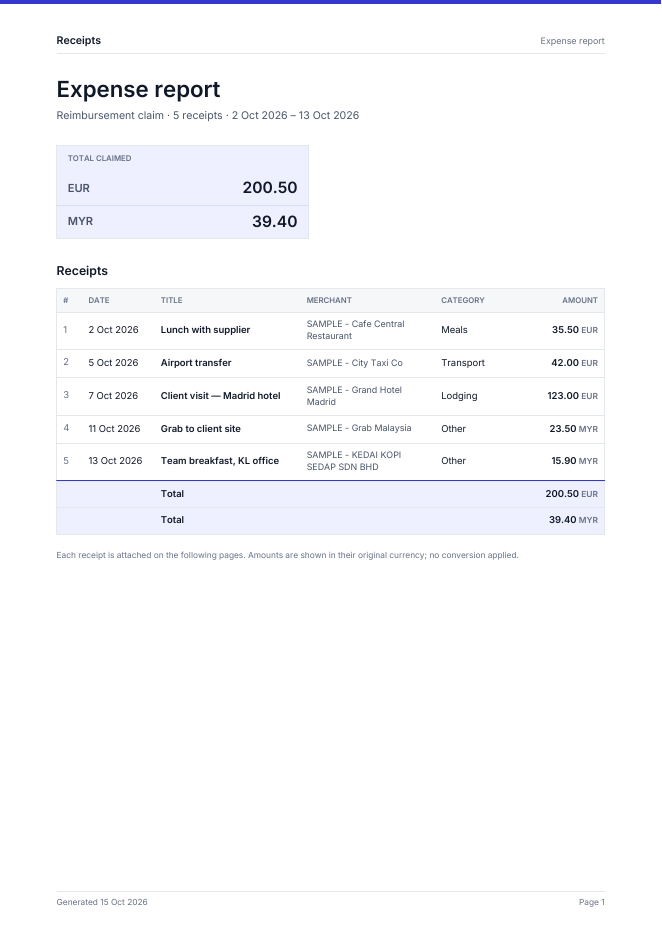
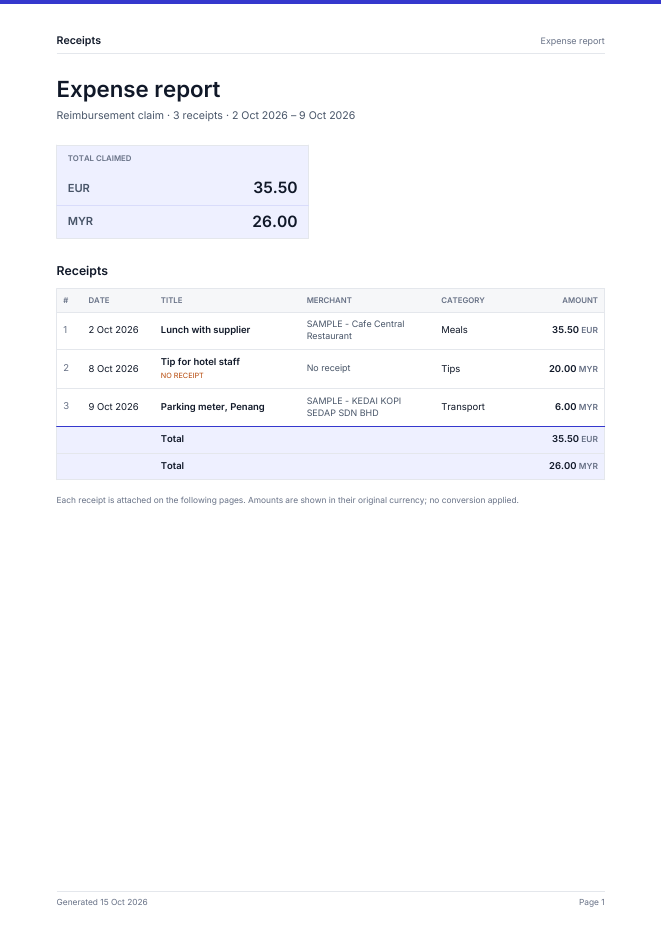
Manual expenses without receipt (Tips category, attach later), No receipt in list/PDF, CSV has_receipt

diff --git a/ui.py b/ui.py
@@ -2,7 +2,7 @@
 # (warm sand palette, thin serif display type, spaced uppercase labels, hairlines, slow transitions).
 STATUS_ES = {"to submit": "To submit", "submitted": "Submitted", "reimbursed": "Reimbursed"}
 CAT_ES = {"meals": "Meals", "travel": "Travel", "transport": "Transport", "lodging": "Lodging",
-          "supplies": "Supplies", "other": "Other"}
+          "supplies": "Supplies", "tips": "Tips", "other": "Other"}
 MESES = ["Jan", "Feb", "Mar", "Apr", "May", "Jun", "Jul", "Aug", "Sep", "Oct", "Nov", "Dec"]
 
 CUR_INFO = {  # code: (symbol, name)
@@ -129,6 +129,13 @@ input[type=checkbox]:checked:after{content:"";position:absolute;left:4.5px;top:1
 .row{min-height:64px;padding-top:10px;padding-bottom:10px;border-bottom:1px solid var(--border);transition:background .12s}
 .row:last-child{border-bottom:0}.row:hover{background:#fafbfc}
 .thumb{width:44px;height:44px;border-radius:8px;overflow:hidden;background:var(--subtle);border:1px solid var(--border);display:block}
+.thumb.norec{display:grid;place-items:center;color:#98a2b3;background:repeating-linear-gradient(135deg,#f6f7f9 0 6px,#eef0f3 6px 12px);border-style:dashed}
+.nobadge{display:inline-flex;align-items:center;height:18px;padding:0 6px;margin-right:6px;border-radius:5px;background:#f2f4f7;border:1px solid var(--border);color:var(--text2);font-size:11px;font-weight:600;vertical-align:1px}
+.ph-act{display:flex;gap:8px;flex-wrap:wrap}
+.err-t{color:#b42318;font-size:12.5px}.inv{border-color:#fda29b!important}
+.req{color:#b42318}
+.noprev{padding:28px 18px;text-align:center}.noprev .ic{width:52px;height:52px;border-radius:12px;margin:0 auto 12px;display:grid;place-items:center;color:#98a2b3;background:repeating-linear-gradient(135deg,#f6f7f9 0 6px,#eef0f3 6px 12px);border:1px dashed var(--border2)}
+.noprev b{display:block;font-size:15px}.noprev p{color:var(--muted);margin:4px 0 16px}
 .thumb img{width:100%;height:100%;object-fit:cover}
 .ttl{font-weight:600;white-space:nowrap;overflow:hidden;text-overflow:ellipsis}
 .ttl:hover{color:var(--accent)}
@@ -173,7 +180,7 @@ details.ocr pre{margin:0;padding:0 18px 18px;white-space:pre-wrap;font:12.5px/1.
 @media (max-width:1080px){.grid{grid-template-columns:1fr}.side{position:static;order:-1}.stats{grid-template-columns:repeat(2,1fr)}}
 @media (max-width:760px){
  main{padding:18px 14px 70px}.bar-in{padding:0 14px}
- .ph h1{font-size:21px}.ph .btn{display:none}
+ .ph h1{font-size:21px}.ph-act{width:100%}.ph-act .btn{flex:1}
  .stats{gap:10px}.stat{padding:13px 14px}.stat .v{font-size:18px}
  .fbar{padding:12px 14px}.fbar .field{width:calc(50% - 5px)}.fbar .btns{width:100%;display:flex;gap:8px}.fbar .btns .btn{flex:1}
  .abar{padding:10px 14px}.abar .r{width:100%}.abar .r .btn{flex:1}
@@ -193,6 +200,8 @@ ICON_UP = '<svg viewBox="0 0 24 24" fill="none" stroke="currentColor" stroke-wid
 ICON_DOC = '<svg viewBox="0 0 24 24" fill="none" stroke="currentColor" stroke-width="1.8" stroke-linecap="round" stroke-linejoin="round" width="16" height="16"><path d="M14 3H7a2 2 0 0 0-2 2v14a2 2 0 0 0 2 2h10a2 2 0 0 0 2-2V8z"/><path d="M14 3v5h5"/></svg>'
 ICON_CAM = '<svg viewBox="0 0 24 24" fill="none" stroke="currentColor" stroke-width="1.8" stroke-linecap="round" stroke-linejoin="round" width="16" height="16"><path d="M3 8a2 2 0 0 1 2-2h2l2-2h6l2 2h2a2 2 0 0 1 2 2v10a2 2 0 0 1-2 2H5a2 2 0 0 1-2-2z"/><circle cx="12" cy="13" r="3.5"/></svg>'
 ICON_LOGO = '<svg viewBox="0 0 24 24" fill="none" stroke="currentColor" stroke-width="2" stroke-linecap="round" stroke-linejoin="round" width="16" height="16"><path d="M6 3h12v18l-3-2-3 2-3-2-3 2z"/><path d="M9 8h6M9 12h6"/></svg>'
+ICON_NOREC = '<svg viewBox="0 0 24 24" fill="none" stroke="currentColor" stroke-width="1.7" stroke-linecap="round" stroke-linejoin="round" width="18" height="18"><path d="M6 3h12v18l-3-2-3 2-3-2-3 2z"/><path d="M3 3l18 18"/></svg>'
+ICON_PEN = '<svg viewBox="0 0 24 24" fill="none" stroke="currentColor" stroke-width="2" stroke-linecap="round" stroke-linejoin="round"><path d="M12 20h9"/><path d="M16.5 3.5a2.1 2.1 0 0 1 3 3L7 19l-4 1 1-4z"/></svg>'
 ICON_PLUS = '<svg viewBox="0 0 24 24" fill="none" stroke="currentColor" stroke-width="2" stroke-linecap="round"><path d="M12 5v14M5 12h14"/></svg>'
 
 TOP = """{% macro curopts(sel, extra=None) %}{% for c in CUR_MAIN %}<option value="{{c}}" {{'selected' if sel==c}}>{{c}} · {{CUR_INFO[c][0]}} · {{CUR_INFO[c][1]}}</option>{% endfor %}
@@ -204,7 +213,7 @@ TOP = """{% macro curopts(sel, extra=None) %}{% for c in CUR_MAIN %}<option valu
 
 INDEX = HEAD + """<title>Expenses · Receipts</title></head><body>""" + TOP + """<main>
 <div class=ph><div><h1>Expenses</h1><p>Track receipts from upload to reimbursement.</p></div>
-<a href="#add" class=btn>""" + ICON_PLUS + """ New receipt</a></div>
+<div class=ph-act><a href="/new" class="btn sec">""" + ICON_PEN + """ Add expense</a><a href="#add" class=btn>""" + ICON_PLUS + """ New receipt</a></div></div>
 <section class=stats>{% for s in statuses %}<div class="card stat"><div class=k><span class="dot d-{{s.split()[0]}}"></span>{{ST[s]}}</div>
 {% set tl = cur_sorted(totals[s]) %}<div class="lines{{' multi' if tl|length > 1}}">{% for c,v in tl %}<div class=ln><span class=sy>{{sym(c)}}</span>{{money(v)}}<small>{{c}}</small></div>{% else %}<div class=ln>0.00</div>{% endfor %}</div>
 <div class=f>{{counts[s]}} {{'receipt' if counts[s]==1 else 'receipts'}}</div></div>{% endfor %}
@@ -228,8 +237,8 @@ INDEX = HEAD + """<title>Expenses · Receipts</title></head><body>""" + TOP + ""
 <div class=thead><span></span><span></span><span>Receipt</span><span>Date</span><span>Category</span><span>Status</span><span class=ra>Amount</span></div>
 {% for r in rows %}<div class=row>
 <span class=ck-w><input type=checkbox class=ck name=ids value={{r.id}} aria-label="Select"></span>
-<a class=thumb href="/edit/{{r.id}}">{% if r.preview %}<img src="/thumbs/{{r.preview}}" alt="" loading=lazy>{% endif %}</a>
-<div class=main><a href="/edit/{{r.id}}" class=ttl style="display:block">{{r.title or r.merchant or 'Untitled'}}</a><div class=mer>{{r.merchant or 'Unknown merchant'}}</div></div>
+{% if r.file %}<a class=thumb href="/edit/{{r.id}}">{% if r.preview %}<img src="/thumbs/{{r.preview}}" alt="" loading=lazy>{% endif %}</a>{% else %}<a class="thumb norec" href="/edit/{{r.id}}" title="No receipt">""" + ICON_NOREC + """</a>{% endif %}
+<div class=main><a href="/edit/{{r.id}}" class=ttl style="display:block">{{r.title or r.merchant or 'Untitled'}}</a><div class=mer>{% if not r.file %}<span class=nobadge>No receipt</span>{% endif %}{{r.merchant or ('Manual expense' if not r.file else 'Unknown merchant')}}</div></div>
 <span class=date>{{fecha(r.date)}}</span>
 <span class=cat-c><span class=chip>{{CAT.get(r.category, r.category)}}</span></span>
 <span class=st-c><span class="pill p-{{r.status.split()[0]}}">{{ST.get(r.status, r.status)}}</span></span>
@@ -267,10 +276,15 @@ document.getElementById('up').addEventListener('submit',ev=>{if(!f.files.length&
 
 EDIT = HEAD + """<title>{{r.title or r.merchant or 'Receipt'}} · Receipts</title></head><body>""" + TOP + """<main>
 <div class=ph><div><div class=crumb><a href="/">Expenses</a> / Receipt #{{r.id}}</div><h1>{{r.title or r.merchant or 'Untitled'}}</h1>
-<p>{{r.merchant or 'Unknown merchant'}} · {{fecha(r.date)}} · <span class="pill p-{{r.status.split()[0]}}" style="vertical-align:1px">{{ST.get(r.status, r.status)}}</span></p></div></div>
+<p>{% if not r.file %}<span class=nobadge>No receipt</span>{% endif %}{{r.merchant or ('Manual expense' if not r.file else 'Unknown merchant')}} · {{fecha(r.date)}} · <span class="pill p-{{r.status.split()[0]}}" style="vertical-align:1px">{{ST.get(r.status, r.status)}}</span></p></div></div>
 <div class=edit>
-<div class="card preview">{% if r.preview %}<a href="/uploads/{{r.file}}" target=_blank><img src="/thumbs/{{r.preview}}" alt="Receipt"></a>{% endif %}
+{% if r.file %}<div class="card preview">{% if r.preview %}<a href="/uploads/{{r.file}}" target=_blank><img src="/thumbs/{{r.preview}}" alt="Receipt"></a>{% endif %}
 <div class=pf><span>{{r.file.rsplit('.',1)[-1]|upper}} file</span><a href="/uploads/{{r.file}}" target=_blank>View original ↗</a></div></div>
+{% else %}<div class="card preview"><div class=noprev><div class=ic>""" + ICON_NOREC + """</div><b>No receipt attached</b><p>This is a manual expense. You can attach a photo or PDF later; empty fields will be filled from it.</p>
+<form method=post action="/attach/{{r.id}}" enctype=multipart/form-data id=att><input type=file name=file accept="image/*,application/pdf,.heic,.heif" id=attf style="position:absolute;width:1px;height:1px;opacity:0">
+<div class=pick style="margin-top:0"><label for=attf class="btn sec">""" + ICON_DOC + """ Choose file</label><button class=btn>Attach</button></div><div class=files id=attn></div></form>
+<script>const af=document.getElementById('attf');af.addEventListener('change',()=>{document.getElementById('attn').textContent=[...af.files].map(x=>x.name).join(' · ')});
+document.getElementById('att').addEventListener('submit',e=>{if(!af.files.length){e.preventDefault();document.getElementById('attn').textContent='Choose a file first.'}})</script></div></div>{% endif %}
 <div><form method=post class=card><div class=card-h><h2>Details</h2></div><div class="card-b fg">
 <label class="field full"><span>Title / description</span><input name=title value="{{r.title or ''}}" placeholder="e.g. Aquapark for Argentina" maxlength=200></label>
 <label class="field full"><span>Merchant</span><input name=merchant value="{{r.merchant}}"></label>
@@ -291,3 +305,17 @@ LOGIN = HEAD + """<title>Sign in · Receipts</title></head><body><div class=logi
 <form method=post><label class=field><span>Password</span><input type=password name=password autocomplete=current-password autofocus required></label>
 {% if err %}<div class=err>{{err}}</div>{% endif %}<button class=btn>Sign in</button></form>
 <div class=lf>Private workspace · Work expenses</div></div></div></body></html>"""
+
+
+NEW = HEAD + """<title>Add expense · Receipts</title></head><body>""" + TOP + """<main>
+<div class=ph><div><div class=crumb><a href="/">Expenses</a> / Add expense</div><h1>Add expense</h1><p>Record an expense without a receipt, such as a tip. You can attach a receipt later.</p></div></div>
+<form method=post class=card style="max-width:720px" novalidate><div class=card-h><div><h2>Expense details</h2><div class=sub>Fields marked <span class=req>*</span> are required</div></div><span class=nobadge>No receipt</span></div>
+<div class="card-b fg">
+<label class="field full"><span>Title <span class=req>*</span></span><input name=title value="{{v.title}}" placeholder="e.g. Tip for hotel staff" maxlength=200 required autofocus class="{{'inv' if errs.title}}">{% if errs.title %}<span class=err-t>{{errs.title}}</span>{% endif %}</label>
+<label class=field><span>Date</span><input type=date name=date value="{{v.date}}"></label>
+<label class=field><span>Category</span><select name=category>{% for c in cats %}<option value="{{c}}" {{'selected' if v.category==c}}>{{CAT[c]}}</option>{% endfor %}</select></label>
+<label class=field><span>Amount <span class=req>*</span></span><input type=number step=0.01 min=0.01 inputmode=decimal name=amount value="{{v.amount}}" placeholder="0.00" required class="num-t {{'inv' if errs.amount}}">{% if errs.amount %}<span class=err-t>{{errs.amount}}</span>{% endif %}</label>
+<label class=field><span>Currency</span><select name=currency>{{curopts(v.currency)}}</select></label>
+<label class="field full"><span>Note</span><textarea name=notes rows=3 placeholder="e.g. Tip on behalf of my boss">{{v.notes}}</textarea></label>
+<label class="field full"><span>Status</span><select name=status>{% for s in statuses %}<option value="{{s}}" {{'selected' if v.status==s}}>{{ST[s]}}</option>{% endfor %}</select></label></div>
+<div class=acts><button class=btn>Add expense</button><a href="/" class="btn sec">Cancel</a></div></form></main></body></html>"""

diff --git a/app.py b/app.py
@@ -9,7 +9,7 @@ DATA = os.environ.get("DATA_DIR", BASE)
 UP = os.path.join(DATA, "uploads"); TH = os.path.join(DATA, "thumbs")
 for d in (UP, TH): os.makedirs(d, exist_ok=True)
 DB = os.path.join(DATA, "receipts.db")
-CATS = ["meals","travel","transport","lodging","supplies","other"]
+CATS = ["meals","travel","transport","lodging","supplies","tips","other"]
 STATUSES = ["to submit","submitted","reimbursed"]
 import json, datetime as _dt
 from werkzeug.security import check_password_hash
@@ -139,7 +139,7 @@ def selected(form):
     if ids: return db().execute("SELECT * FROM receipts WHERE id IN (%s) ORDER BY date" % ",".join("?"*len(ids)), ids).fetchall()
     return list(reversed(query(form)))
 
-from ui import INDEX, EDIT, LOGIN, STATUS_ES, CAT_ES, fecha, money, CUR_MAIN, CUR_OTHER, CUR_INFO, cur_sorted, sym
+from ui import INDEX, EDIT, LOGIN, NEW, STATUS_ES, CAT_ES, fecha, money, CUR_MAIN, CUR_OTHER, CUR_INFO, cur_sorted, sym
 CODES = list(CUR_INFO)
 app.jinja_env.globals.update(ST=STATUS_ES, CAT=CAT_ES, fecha=fecha, money=money, CUR_MAIN=CUR_MAIN, CUR_OTHER=CUR_OTHER, CUR_INFO=CUR_INFO, cur_sorted=cur_sorted, sym=sym)
 @app.route("/login", methods=["GET","POST"])
@@ -182,6 +182,46 @@ def upload():
     if last: flash("Receipt added · please review the details"); return redirect(url_for("edit", rid=last))
     return redirect("/")
 
+@app.route("/new", methods=["GET","POST"])
+def new_expense():
+    """Manual expense with no receipt file."""
+    today = datetime.date.today().isoformat()
+    v = {"title": "", "date": today, "amount": "", "currency": session.get("cur", "EUR"), "category": "tips", "notes": "", "status": "to submit"}
+    errs = {}
+    if request.method == "POST":
+        f = request.form
+        v.update({k: (f.get(k) or "").strip() for k in v})
+        v["currency"] = (v["currency"] or "EUR").upper()[:3]; v["date"] = v["date"] or today
+        if not v["title"]: errs["title"] = "Please enter a title."
+        try:
+            amt = float(v["amount"].replace(",", "."))
+            if amt <= 0: raise ValueError
+        except ValueError: errs["amount"] = "Please enter an amount greater than 0."
+        if v["category"] not in CATS: v["category"] = "other"
+        if v["status"] not in STATUSES: v["status"] = "to submit"
+        if not errs:
+            session["cur"] = v["currency"]
+            db().execute("INSERT INTO receipts(title,date,merchant,amount,currency,category,notes,status,file,preview,ocr_text,ocr_note,created) VALUES(?,?,?,?,?,?,?,?,NULL,NULL,'','',?)",
+                (v["title"][:200], v["date"], "", amt, v["currency"], v["category"], v["notes"], v["status"], datetime.datetime.now().isoformat()))
+            flash("Expense added"); return redirect("/")
+    return render_template_string(NEW, v=v, errs=errs, cats=CATS, statuses=STATUSES)
+
+@app.post("/attach/<int:rid>")
+def attach(rid):
+    """Attach a receipt file to an existing (manual) expense. OCR only fills fields that are empty."""
+    r = db().execute("SELECT * FROM receipts WHERE id=?", (rid,)).fetchone()
+    up = request.files.get("file")
+    if not r or not up or not up.filename: flash("Choose a file to attach"); return redirect(url_for("edit", rid=rid))
+    ext = os.path.splitext(up.filename)[1].lower() or ".jpg"
+    path = os.path.join(UP, uuid.uuid4().hex + ext); up.save(path)
+    prev = make_preview(path); text = extract_text(path, prev); d = parse(text)
+    merchant = r["merchant"] or d.get("merchant", "")
+    amount = r["amount"] if r["amount"] else d.get("amount", 0)
+    title = r["title"] or d.get("merchant", "")
+    db().execute("UPDATE receipts SET file=?,preview=?,ocr_text=?,ocr_note=?,merchant=?,amount=?,title=? WHERE id=?",
+                 (os.path.basename(path), prev, text, d.get("ocr_note", ""), merchant, amount, title, rid))
+    flash("Receipt attached"); return redirect(url_for("edit", rid=rid))
+
 @app.route("/edit/<int:rid>", methods=["GET","POST"])
 def edit(rid):
     if request.method == "POST":
@@ -208,9 +248,9 @@ def bulk():
 @app.post("/export.csv")
 def export_csv():
     out = io.StringIO(); out.write("\ufeff"); w = csv.writer(out)
-    w.writerow(["id","date","title","merchant","amount","currency","category","status","notes","file"])
+    w.writerow(["id","date","title","merchant","amount","currency","category","status","notes","has_receipt","file"])
     for r in selected(request.form):
-        w.writerow([r["id"],r["date"],r["title"] or "",r["merchant"],"%.2f"%r["amount"],r["currency"],CAT_ES.get(r["category"],r["category"]),STATUS_ES.get(r["status"],r["status"]),r["notes"],r["file"]])
+        w.writerow([r["id"],r["date"],r["title"] or "",r["merchant"],"%.2f"%r["amount"],r["currency"],CAT_ES.get(r["category"],r["category"]),STATUS_ES.get(r["status"],r["status"]),r["notes"],"yes" if r["file"] else "no",r["file"] or ""])
     return Response(out.getvalue(), mimetype="text/csv", headers={"Content-Disposition":"attachment; filename=receipts.csv"})
 
 @app.post("/export.pdf")

diff --git a/pdfreport.py b/pdfreport.py
@@ -70,7 +70,8 @@ def build_pdf(rows, thumbs_dir):
     data = [[Paragraph(x, HDR if x != "AMOUNT" else st("hr", parent=HDR, alignment=TA_RIGHT)) for x in ["#", "DATE", "TITLE", "MERCHANT", "CATEGORY", "AMOUNT"]]]
     for i, r in enumerate(rows, 1):
         data.append([Paragraph(str(i), st("n", fontSize=8.5, textColor=MUTED)), Paragraph(fecha(r["date"]), CELL),
-                     Paragraph(r["title"] or "—", CELLB), Paragraph(r["merchant"] or "—", st("m", fontSize=8, leading=11, textColor=TEXT2)),
+                     Paragraph((r["title"] or "—") + ("" if r["file"] else "<br/><font name='Inter' size='6.5' color='#b54708'>NO RECEIPT</font>"), CELLB),
+                     Paragraph(r["merchant"] or ("—" if r["file"] else "No receipt"), st("m", fontSize=8, leading=11, textColor=TEXT2)),
                      Paragraph(CAT_ES.get(r["category"], r["category"]), CELL),
                      Paragraph(f"{money(r['amount'])} <font size='7.5' color='#667085'>{r['currency']}</font>", st("a", parent=CELLB, alignment=TA_RIGHT))])
     for c, v in tot:
@@ -88,14 +89,27 @@ def build_pdf(rows, thumbs_dir):
         el.append(Paragraph(f"RECEIPT {i} OF {n}", HDR)); el.append(Spacer(1, 2*mm))
         el.append(Paragraph(r["title"] or r["merchant"] or "—", st("rt", fontName=B, fontSize=15, leading=19))); el.append(Spacer(1, 4*mm))
         meta = [[Paragraph("MERCHANT", HDR), Paragraph("DATE", HDR), Paragraph("CATEGORY", HDR), Paragraph("AMOUNT", st("hr2", parent=HDR, alignment=TA_RIGHT))],
-                [Paragraph(r["merchant"] or "—", CELL), Paragraph(fecha(r["date"]), CELL), Paragraph(CAT_ES.get(r["category"], r["category"]), CELL),
+                [Paragraph(r["merchant"] or ("—" if r["file"] else "No receipt"), CELL), Paragraph(fecha(r["date"]), CELL), Paragraph(CAT_ES.get(r["category"], r["category"]), CELL),
                  Paragraph(f"{money(r['amount'])} {r['currency']}", st("ma", parent=CELLB, fontSize=11, alignment=TA_RIGHT))]]
         mt = Table(meta, colWidths=[W*0.38, W*0.20, W*0.20, W*0.22])
         mt.setStyle(TableStyle([("BOX", (0, 0), (-1, -1), 0.6, BORDER), ("BACKGROUND", (0, 0), (-1, 0), SUBTLE), ("LINEBELOW", (0, 0), (-1, 0), 0.5, BORDER),
             ("TOPPADDING", (0, 0), (-1, -1), 6), ("BOTTOMPADDING", (0, 0), (-1, -1), 6), ("LEFTPADDING", (0, 0), (-1, -1), 8), ("RIGHTPADDING", (0, 0), (-1, -1), 8)]))
         el.append(mt)
-        if r["notes"]: el += [Spacer(1, 3*mm), Paragraph(f"<font name='{B}'>Notes</font> &nbsp;{r['notes']}", st("nt", textColor=TEXT2))]
+        if r["notes"] and r["file"]: el += [Spacer(1, 3*mm), Paragraph(f"<font name='{B}'>Notes</font> &nbsp;{r['notes']}", st("nt", textColor=TEXT2))]
         el.append(Spacer(1, 5*mm))
+        if not r["file"]:
+            rows_ = [[Paragraph("NO RECEIPT", st("nr", fontName=B, fontSize=7.5, textColor=colors.HexColor("#b54708"))), ""],
+                     [Paragraph("This expense has no receipt. It was recorded manually.", st("nr2", fontSize=9.5, textColor=TEXT2)), ""],
+                     [Paragraph("Title", HDR), Paragraph(r["title"] or "—", CELLB)],
+                     [Paragraph("Date", HDR), Paragraph(fecha(r["date"]), CELL)],
+                     [Paragraph("Category", HDR), Paragraph(CAT_ES.get(r["category"], r["category"]), CELL)],
+                     [Paragraph("Amount", HDR), Paragraph(f"{money(r['amount'])} {r['currency']}", st("na", fontName=B, fontSize=11))],
+                     [Paragraph("Note", HDR), Paragraph(r["notes"] or "—", CELL)]]
+            nc = Table(rows_, colWidths=[30*mm, W - 30*mm])
+            nc.setStyle(TableStyle([("BOX", (0, 0), (-1, -1), 0.6, BORDER), ("BACKGROUND", (0, 0), (-1, 1), colors.HexColor("#fffaeb")),
+                ("SPAN", (0, 0), (-1, 0)), ("SPAN", (0, 1), (-1, 1)), ("LINEBELOW", (0, 1), (-1, -2), 0.5, BORDER), ("VALIGN", (0, 0), (-1, -1), "MIDDLE"),
+                ("LEFTPADDING", (0, 0), (-1, -1), 12), ("RIGHTPADDING", (0, 0), (-1, -1), 12), ("TOPPADDING", (0, 0), (-1, -1), 8), ("BOTTOMPADDING", (0, 0), (-1, -1), 8)]))
+            el.append(nc)
         if r["preview"]:
             p = os.path.join(thumbs_dir, r["preview"])
             if os.path.exists(p):
